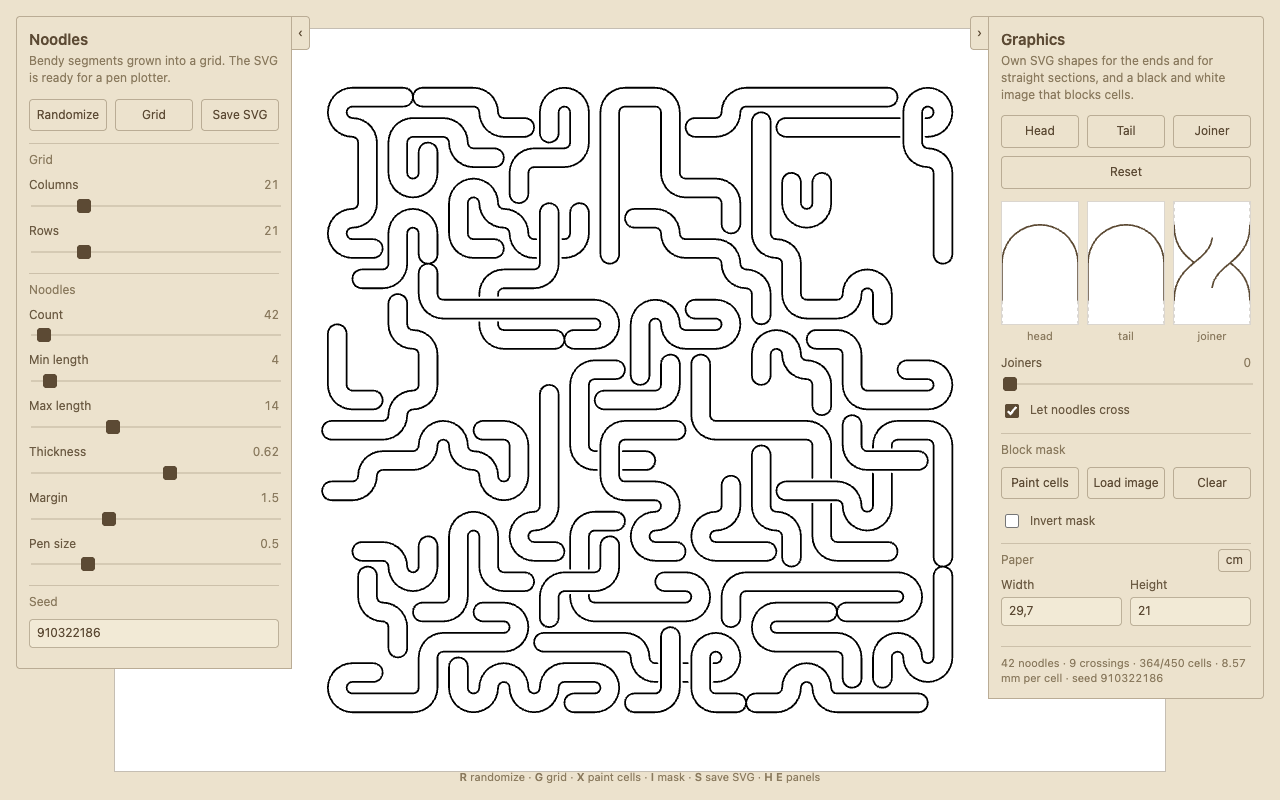
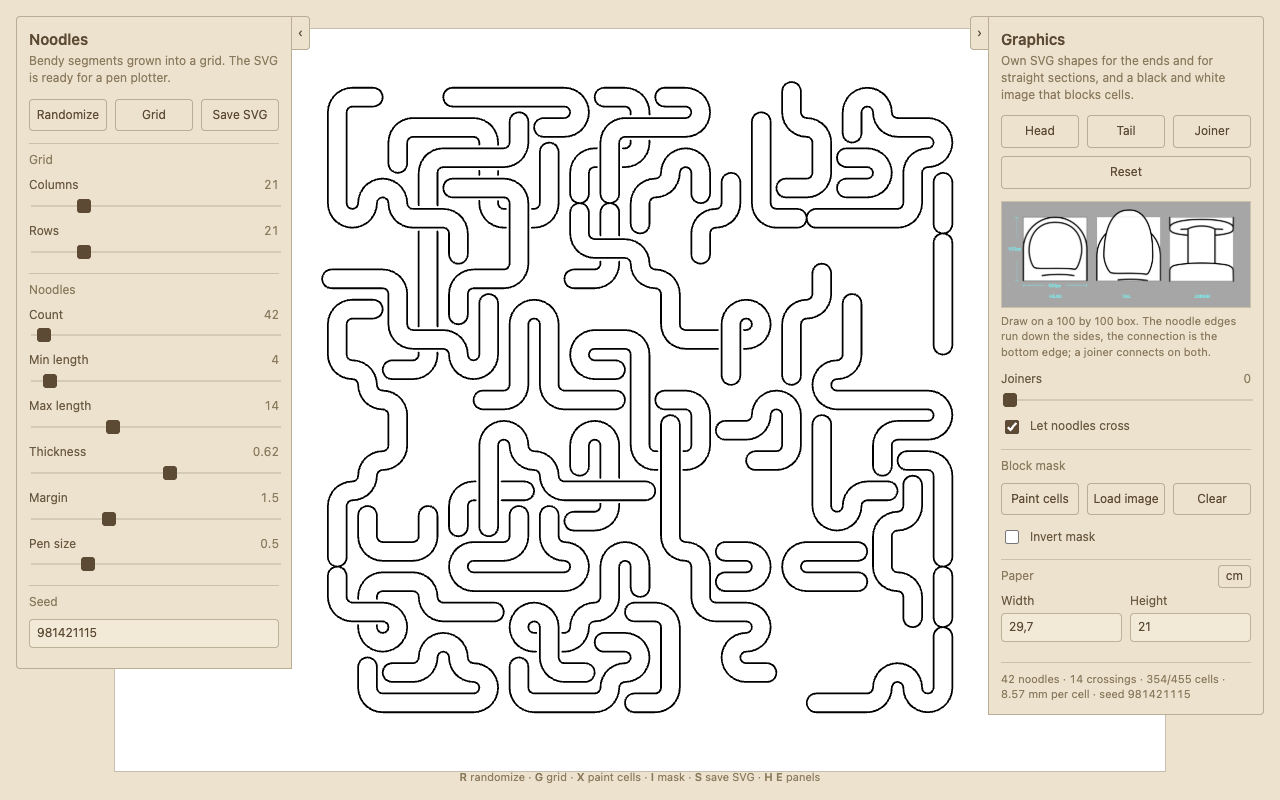
Diagramm aus dem Original unter den Grafik-Knoepfen statt der Vorschau-Kacheln

Changed region(s): [[0.25, 0.0938, 1.0, 0.9062], [0.9375, 0.6875, 0.9688, 0.75], [0.0312, 0.7812, 0.0938, 0.8125]]

diff --git a/index.html b/index.html
@@ -109,16 +109,12 @@
     color: var(--ink); background: var(--paper-bright);
     border: 1px solid var(--border-strong); border-radius: 4px;
   }
-  .previews {
-    display: flex; gap: var(--control); align-items: flex-end;
-    margin: 0 0 var(--panel-pad);
+  .diagram { margin: 0 0 var(--panel-pad); }
+  .diagram img { display: block; width: 100%; height: auto; border: 1px solid var(--border); }
+  .diagram a { display: block; }
+  .diagram figcaption {
+    margin-top: 5px; font-size: 11px; line-height: 1.4; color: var(--ink-faint);
   }
-  .preview { flex: 1; text-align: center; font-size: 11px; color: var(--ink-faint); }
-  .preview > div {
-    background: #fff; border: 1px solid var(--border); margin-bottom: 3px;
-    color: var(--ink);
-  }
-  .preview svg { display: block; width: 100%; height: auto; }
 
   .pair { display: flex; gap: var(--control); }
   .pair .row { flex: 1; }
@@ -204,11 +200,10 @@
     <button class="b" id="btnGfxReset">Reset</button>
   </div>
   <input type="file" id="gfxFile" accept=".svg,image/svg+xml" hidden>
-  <div class="previews">
-    <div class="preview"><div id="pvHead"></div>head</div>
-    <div class="preview"><div id="pvTail"></div>tail</div>
-    <div class="preview"><div id="pvJoiner"></div>joiner</div>
-  </div>
+  <figure class="diagram">
+    <a href="svgDiagram.png" target="_blank" rel="noopener"><img src="svgDiagram.png" alt="Head, tail and joiner drawn on a 100 by 100 box, with the noodle edges meeting the bottom"></a>
+    <figcaption>Draw on a 100 by 100 box. The noodle edges run down the sides, the connection is the bottom edge; a joiner connects on both.</figcaption>
+  </figure>
   <div class="row"><label>Joiners<span class="val" id="v_joiners"></span></label><input type="range" id="joiners" min="0" max="1" step=".05" value="0"></div>
   <label class="check"><input type="checkbox" id="overlaps" checked> Let noodles cross</label>
 
@@ -731,39 +726,6 @@
     });
   }
 
-  // The preview shows the shape together with the noodle edges it has to meet:
-  // dashed stubs leaving the square where the outline continues.
-  function previewMarkup(g, bothEnds) {
-    var x = g.vb[0], y = g.vb[1], w = g.vb[2], h = g.vb[3];
-    var pad = h * .3, sw = w / 45;
-    var stub = "M" + x + "," + (y + h) + "v" + pad + "M" + (x + w) + "," + (y + h) + "v" + pad;
-    if (bothEnds) stub += "M" + x + "," + y + "v" + -pad + "M" + (x + w) + "," + y + "v" + -pad;
-    // Same box for all three, so the tiles line up whether or not the shape
-    // connects on both edges.
-    return '<svg viewBox="' + [x, y - pad, w, h + 2 * pad].join(" ") + '" xmlns="http://www.w3.org/2000/svg">' +
-           '<path d="' + stub + '" fill="none" stroke="currentColor" stroke-opacity=".3" stroke-width="' +
-           sw + '" stroke-dasharray="' + sw * 2 + " " + sw * 2 + '"/>' +
-           '<g fill="none" stroke="currentColor" stroke-width="' + sw + '">' + g.inner + "</g></svg>";
-  }
-
-  function showPreview(id, g, bothEnds) {
-    var host = document.getElementById(id);
-    host.innerHTML = previewMarkup(g, bothEnds);
-    // A shape may reach past its box, so fit the tile to what is actually
-    // drawn instead of to the nominal 100 x 100.
-    var svg = host.firstChild, box;
-    try { box = svg.getBBox(); } catch (e) { return; }
-    if (!box || !box.width) return;
-    var m = g.vb[2] * .05;
-    svg.setAttribute("viewBox", [box.x - m, box.y - m, box.width + 2 * m, box.height + 2 * m].join(" "));
-  }
-
-  function drawPreviews() {
-    showPreview("pvHead", gfx.head || CAP, false);
-    showPreview("pvTail", gfx.tail || gfx.head || CAP, false);
-    showPreview("pvJoiner", gfx.joiner || TWIST, true);
-  }
-
   document.getElementById("gfxFile").addEventListener("change", function (ev) {
     var file = ev.target.files[0];
     if (!file) return;
@@ -784,7 +746,6 @@
       var ser = new XMLSerializer(), inner = "";
       Array.prototype.forEach.call(root.childNodes, function (n) { inner += ser.serializeToString(n); });
       gfx[slot] = { vb: vb, inner: inner };
-      drawPreviews();
       if (slot === "joiner" && +document.getElementById("joiners").value === 0) {
         document.getElementById("joiners").value = .35;
         document.getElementById("v_joiners").textContent = ".35";
@@ -827,7 +788,6 @@
 
   document.getElementById("btnGfxReset").addEventListener("click", function () {
     gfx = {};
-    drawPreviews();
     draw(false);
   });
 
@@ -934,7 +894,6 @@
   });
 
   document.getElementById("seed").value = Math.floor(Math.random() * 1e9);
-  drawPreviews();
   draw(true);
 
   // ---- self check: index.html?test=1 --------------------------------------

diff --git a/README.md b/README.md
@@ -72,9 +72,8 @@ on both the top and the bottom. That is the same convention as the original, so 
 graphics work here unchanged. Colour, stroke width and fill in the file are dropped;
 the pen size from the panel applies instead.
 
-The three tiles under the buttons show what is in use, with dashed stubs marking
-where the noodle edges continue, so you can see at a glance whether a shape lines up.
-When nothing is loaded they show the built-in round cap and twist.
+The diagram under the buttons is the one from the original repo and shows the
+convention; click it to see it full size.
 
 Six SVGs sit next to `index.html` as a starting point. `roundEnd.svg`, `twist.svg` and
 `twistFill.svg` are the plain set, rebuilt from the original sketch. `fingerHead.svg`,
